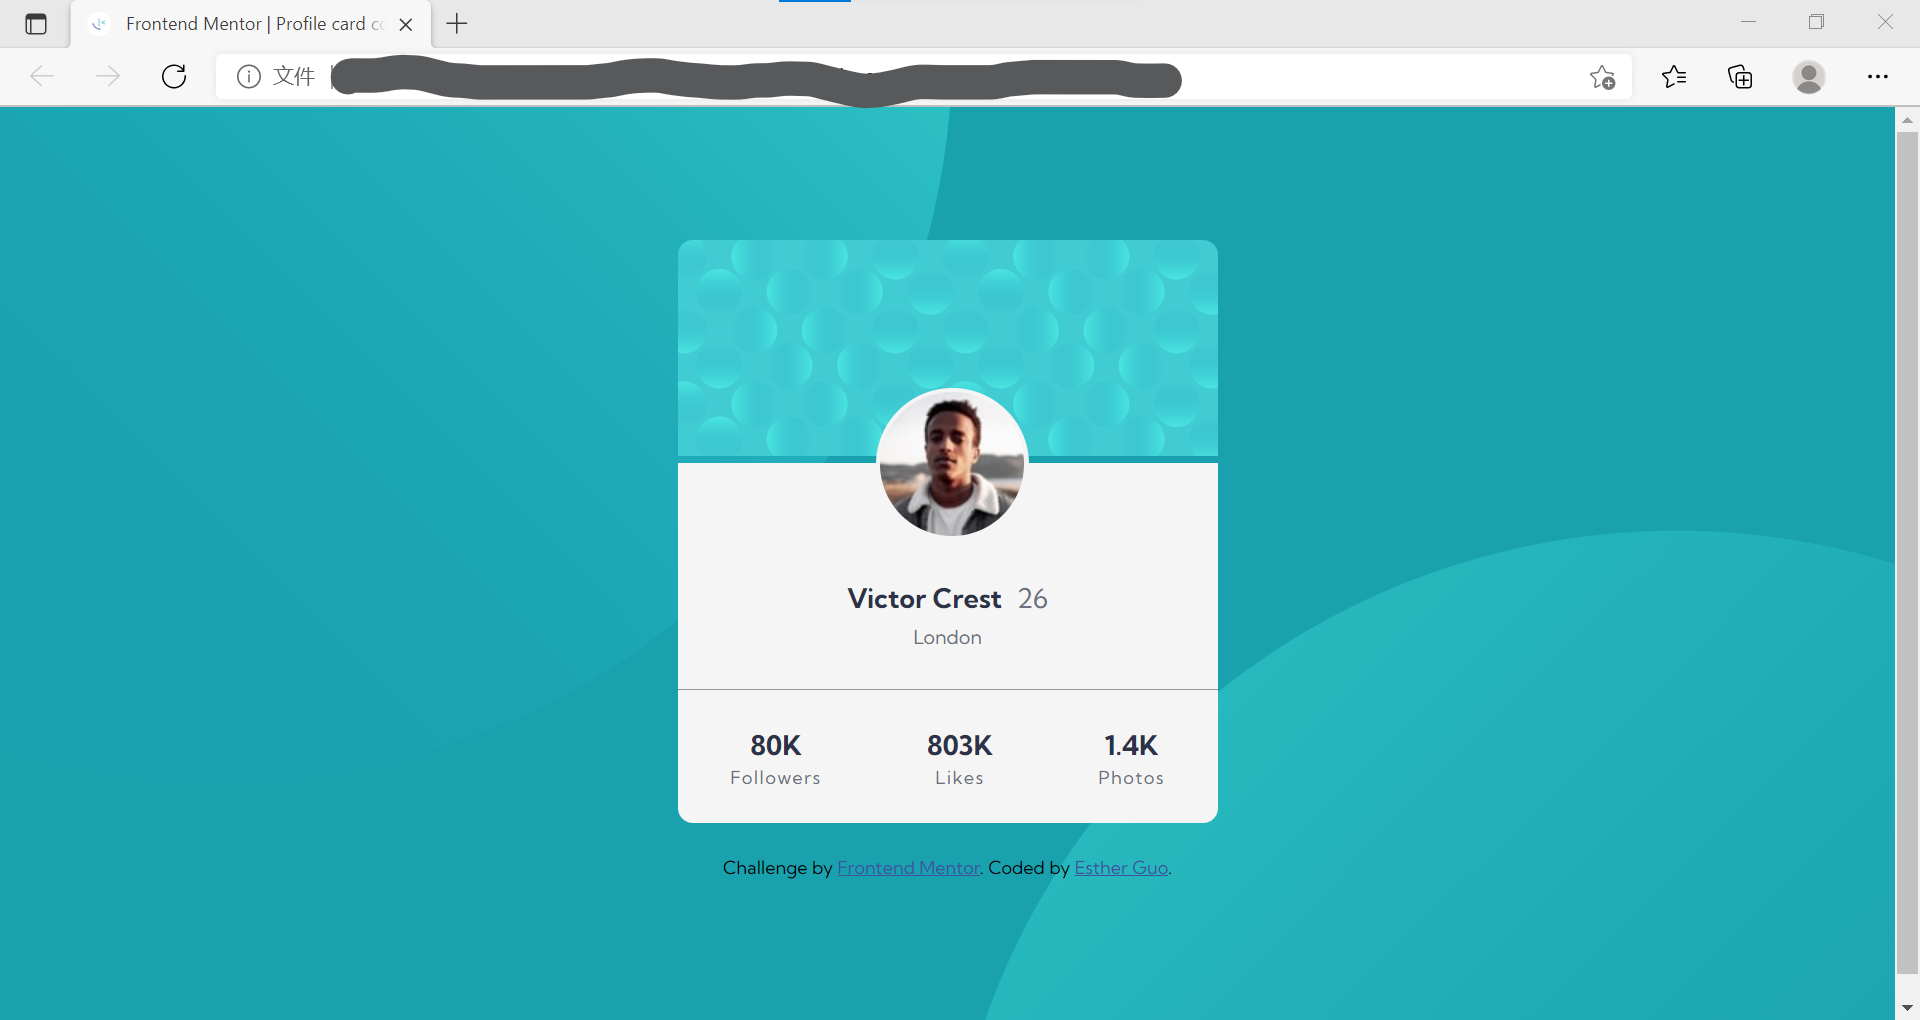
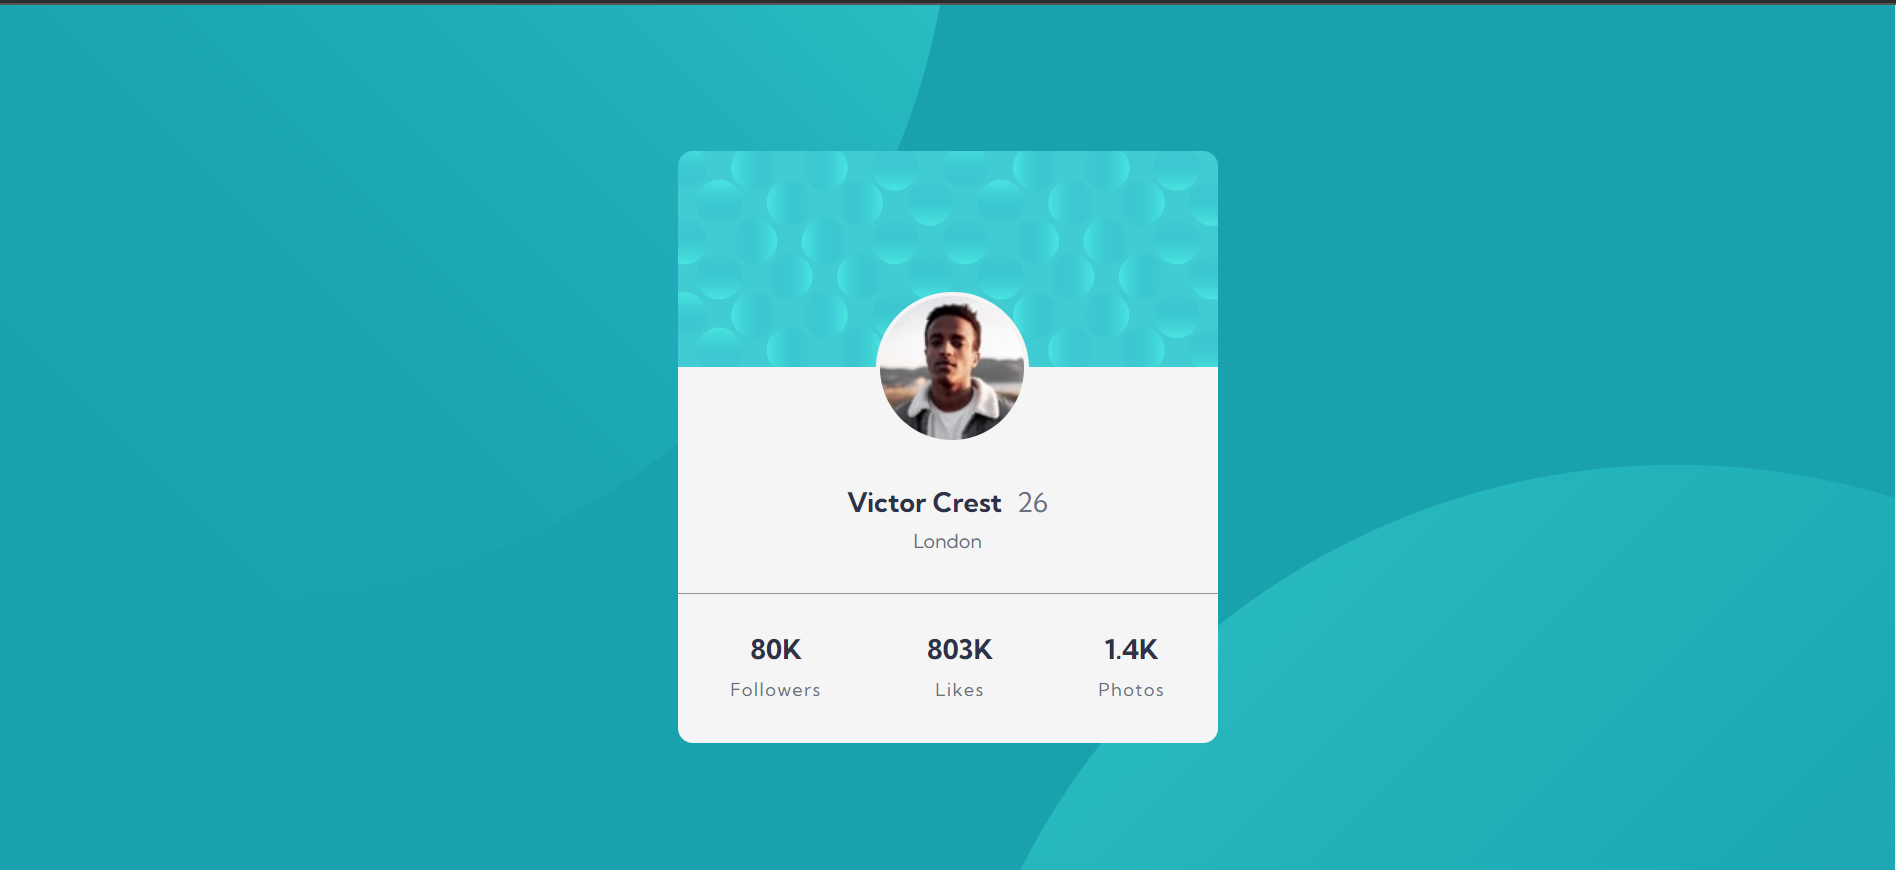
bugfix &  update README

Changed region(s): [[0.0, 0.0, 1.0, 1.0]]

diff --git a/style.css b/style.css
@@ -1,5 +1,9 @@
 @import url('https://fonts.googleapis.com/css2?family=Kumbh+Sans:wght@400;700&display=swap');
 
+* {
+    -webkit-text-size-adjust: none;
+}
+
 html {
     font-family: 'Kumbh Sans', sans-serif;
     font-size: 62.5%;
@@ -31,13 +35,15 @@ body {
     align-items: center;
 }
 
-.card-top {
+.card-top { /* how is the height being calculated?*/
     width: 100%;
+    line-height: 0;
 }
 
 .card-top img {
     width: 100%;
     height: auto; 
+    /* display: block; */
     border-radius: 10px 10px 0 0;
 
     object-fit: contain;
@@ -100,15 +106,7 @@ body {
 
 .category {
     line-height: 1.5em;
-    font-size: .5rem;
+    font-size: 1.2rem;
     letter-spacing: 1px;
     color: hsl(227, 10%, 46%);
 }
-
-.attribution {
-    margin: 2em auto;
-    font-size: 11px; 
-    text-align: center;
-}
-
-.attribution a { color: hsl(228, 45%, 44%); }

diff --git a/index.html b/index.html
@@ -14,7 +14,7 @@
 <body>
   <div class="card">
     <div class="card-top">
-      <img src="./images/bg-pattern-card.svg#svgView(preserveAspectRatio(none))" alt="card background"/>
+      <img src="./images/bg-pattern-card.svg" alt="card background"/>
     </div>
     <div class="float-image"><img id="photo" src="./images/image-victor.jpg" alt="user profile photo"/></div>
     <div class="card-bottom">
@@ -29,10 +29,6 @@
         <div class="stats-column"><span class="number">1.4K</span> <span class="category">Photos</span></div>
       </div>
     </div>
-  </div>
-  <div class="attribution">
-    Challenge by <a href="https://www.frontendmentor.io?ref=challenge" target="_blank">Frontend Mentor</a>. 
-    Coded by <a href="https://github.com/Esther-Guo">Esther Guo</a>.
   </div>
 </body>
 </html>

diff --git a/README.md b/README.md
@@ -55,9 +55,16 @@ This is a solution to the [Profile card component challenge on Frontend Mentor](
 - Solve peoblem: Gap between border and image when border radius is added
 
 ![](./screenshots/gap.png)
-Solution: Set `background-color same as border color`
+
+Solution: Set `background-color` same as border color.
 
 - Set only two corners using `border-radius` 
+- Chrome has a minimum font size setting(in my case 12px), so any font size set to < 12px is still shown as 12. 
+- How I get rid of weird space around an image: Add `display: block`. The line-height method also works!
+
+![](./screenshots/space.png)
+
+[Explanation](https://stackoverflow.com/a/20788749): `img` is an inline element, so it has to deal with white-space, line-height, etc., as all inline elements. I guess the space you're seeing is actually caused by the line-height. So another solution if you want to keep your img as inline elements is to set its parent `line-height: 0;`
 
 ### Continued development
 
